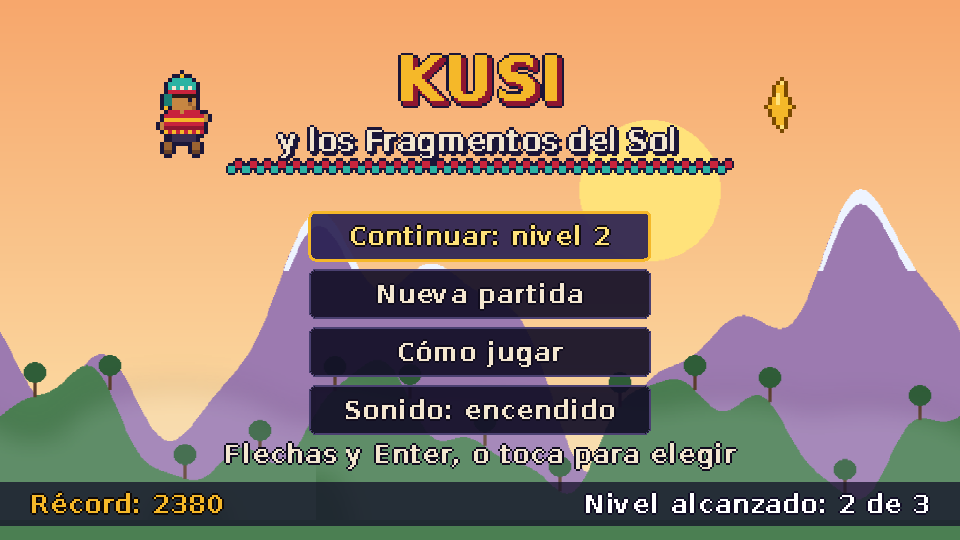
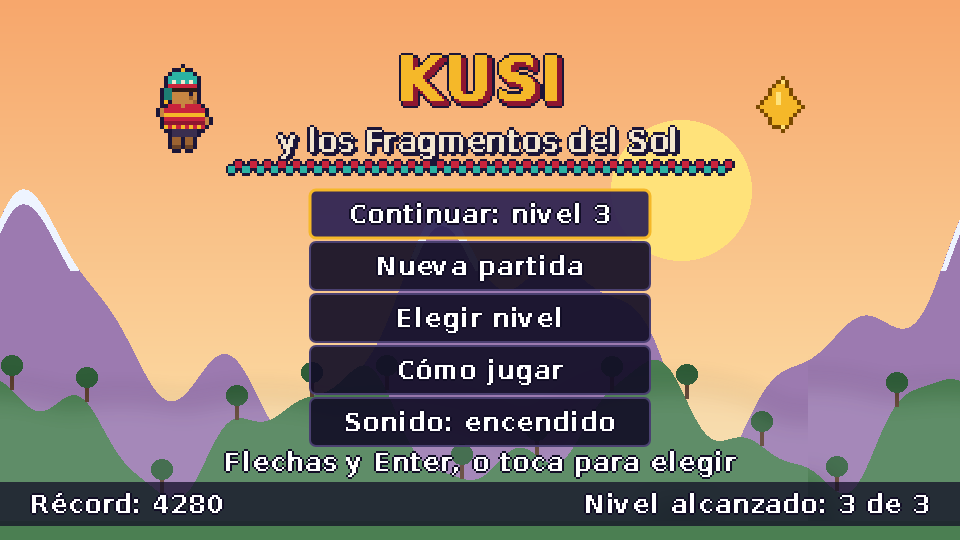
fix: carteles del tutorial de uno en uno; docs, capturas y caché v2 al día

diff --git a/src/ui/TutorialNivel1.js b/src/ui/TutorialNivel1.js
@@ -74,6 +74,7 @@ export default class TutorialNivel1 {
     this.inicioX = jugador.x;
     this.terminado = false;
     this.actual = null;
+    this.panelesEnPantalla = 0; // los carteles salen de uno en uno: el siguiente espera a que se vaya el anterior
     // El Neblino del primer cartel de pisotón es el enemigo más cercano a la columna 21
     this.primerEnemigo = enemigos.getChildren()
       .filter((e) => e.vivo !== undefined)
@@ -130,6 +131,7 @@ export default class TutorialNivel1 {
     };
     panel.dibujarFondo(COLOR.oro);
     panel.alto = alto;
+    this.panelesEnPantalla += 1;
     panel.setScale(0);
     this.scene.tweens.add({ targets: panel, scale: 1, duration: 260, ease: 'Back.out' });
     panel.flotar = this.scene.tweens.add({ targets: panel, y: ALTO_CARTEL - 5, duration: 900, yoyo: true, repeat: -1, ease: 'Sine.inOut' });
@@ -144,22 +146,26 @@ export default class TutorialNivel1 {
     // Si Kusi ya pasó de largo un cartel, se da por visto
     this.carteles.forEach((c) => { if (!c.visto && columna > c.hasta) this.cerrar(c, false); });
 
+    // El cartel que se muestra se completa cuando el jugador hace lo que pide
+    if (this.actual && this.actual.hecho(this)) this.cerrar(this.actual, true);
+
     const siguiente = this.carteles.find((c) => !c.visto && columna >= c.desde && columna <= c.hasta) ?? null;
     if (siguiente !== this.actual) {
-      if (this.actual && !this.actual.visto) this.ocultarPanel(this.actual);
-      this.actual = siguiente;
+      // Kusi salió del tramo del cartel actual sin completarlo (por ejemplo, retrocedió): se guarda
+      if (this.actual) this.ocultarPanel(this.actual);
+      this.actual = null;
       if (siguiente && siguiente.hecho(this)) {
         // Lo que pide este cartel ya lo hizo antes: no hace falta mostrarlo
         siguiente.visto = true;
-        this.actual = null;
-      } else if (siguiente) {
+      } else if (siguiente && this.panelesEnPantalla === 0) {
+        // Solo aparece cuando el cartel anterior terminó de irse, para que nunca se encimen
+        this.actual = siguiente;
         siguiente.poste = this.crearPoste(siguiente.x);
         siguiente.panel = this.crearPanel(siguiente);
       }
     }
-    if (this.actual && this.actual.hecho(this)) this.cerrar(this.actual, true);
 
-    if (this.carteles.every((c) => c.visto)) this.terminar();
+    if (this.panelesEnPantalla === 0 && this.carteles.every((c) => c.visto)) this.terminar();
   }
 
   /** Completa un cartel: si el jugador lo hizo bien, se celebra con un "¡Bien!". */
@@ -172,7 +178,7 @@ export default class TutorialNivel1 {
       panel.dibujarFondo(COLOR.turquesa);
       const bien = this.scene.add.bitmapText(0, -panel.alto / 2 - 16, FUENTE, '¡Bien!', 24).setOrigin(0.5).setTint(COLOR.oroClaro);
       panel.add(bien);
-      this.scene.time.delayedCall(700, () => this.ocultarPanel(cartel));
+      this.scene.time.delayedCall(550, () => this.ocultarPanel(cartel));
     } else {
       this.ocultarPanel(cartel);
     }
@@ -188,7 +194,13 @@ export default class TutorialNivel1 {
     if (!panel || panel.cerrando) return;
     panel.cerrando = true;
     panel.flotar?.stop();
-    this.scene.tweens.add({ targets: panel, scale: 0, alpha: 0, duration: 200, ease: 'Back.in', onComplete: () => panel.destroy() });
+    this.scene.tweens.add({
+      targets: panel, scale: 0, alpha: 0, duration: 200, ease: 'Back.in',
+      onComplete: () => {
+        panel.destroy();
+        this.panelesEnPantalla -= 1;
+      }
+    });
     cartel.panel = null;
   }
 

diff --git a/public/sw.js b/public/sw.js
@@ -3,7 +3,10 @@
  * Estrategia: red primero para el HTML (para recibir actualizaciones) y
  * caché primero para el resto de archivos (JS, imágenes, audio).
  */
-const CACHE = 'kusi-v1';
+// Cambiar este nombre cada vez que se modifiquen imágenes, audio o datos de public/:
+// al activarse, el service worker borra las cachés con otro nombre y descarga los archivos nuevos.
+// v2: sprites del dash, Llama, Atoq y sonido del rayo.
+const CACHE = 'kusi-v2';
 
 self.addEventListener('install', (evento) => {
   evento.waitUntil(caches.open(CACHE).then((cache) => cache.addAll(['./', './index.html'])));

diff --git a/docs/AUTOEVALUACION.md b/docs/AUTOEVALUACION.md
@@ -8,16 +8,16 @@
 
 | Criterio | Peso | Autoevaluación | Justificación |
 | --- | --- | --- | --- |
-| Funcionalidad principal | 20 % | __ / 20 | El juego se juega de inicio a fin: menú, historia, 3 niveles, jefe, victoria, Game Over y reinicio. 22 pruebas automatizadas aprobadas. |
-| Mecánicas de juego | 15 % | __ / 15 | Saltos con tiempo coyote, buffer y altura variable; plataformas de un solo sentido; resortes; losas móviles; suelo de hielo; checkpoints; jefe con dos fases. |
+| Funcionalidad principal | 20 % | __ / 20 | El juego se juega de inicio a fin: menú, selector de niveles, historia, 3 niveles, jefe, victoria, Game Over y reinicio. 22 pruebas automatizadas aprobadas. |
+| Mecánicas de juego | 15 % | __ / 15 | Saltos con tiempo coyote, buffer y altura variable; dash en el suelo y en el aire; plataformas de un solo sentido; resortes; losas móviles; suelo de hielo; checkpoints; enemigos con IA propia (Llama que dispara, Atoq que embiste); jefe con 3 fases y rayos con aviso. |
 | Física y colisiones | 10 % | __ / 10 | Arcade Physics con gravedad, colliders con tilemap, overlaps, triggers (apachetas, meta, arena) y rebotes. |
 | Arquitectura y modularidad | 15 % | __ / 15 | Carpetas `scenes`, `objects`, `ui`, `managers`, `physics`, `audio` y `assets`; máquina de estados reutilizable; EventBus; niveles definidos como datos. |
 | Rendimiento y optimización | 10 % | __ / 10 | 60 FPS en modo Canvas; pooling, texturas precalculadas, fondos recortados y calidad adaptativa. El monitor de rendimiento interno activa la calidad ligera si el equipo baja de 45 FPS. |
-| UX/UI | 10 % | __ / 10 | Menús navegables con teclado, ratón y toque; HUD con vidas, puntos, fragmentos, minimapa y barra del jefe; pausa y Game Over claros. |
-| Audio e inmersión | 5 % | __ / 5 | 3 músicas, 2 jingles y 12 efectos originales; silencio con botón y tecla M, guardado entre sesiones. |
+| UX/UI | 10 % | __ / 10 | Menús navegables con teclado, ratón y toque; selector de niveles con vista previa; "Cómo jugar" en 4 páginas con animaciones reales; tutorial interactivo en el Nivel 1; HUD con vidas, puntos, fragmentos, minimapa y barra del jefe con su fase; game feel (polvo, estela, pausa breve al pisar); pausa y Game Over claros. |
+| Audio e inmersión | 5 % | __ / 5 | 3 músicas, 2 jingles y 14 efectos originales (incluidos dash y rayo); silencio con botón y tecla M, guardado entre sesiones. |
 | Responsividad y táctil | 5 % | __ / 5 | `Scale.FIT`, controles táctiles multitáctiles probados en un móvil simulado en horizontal, pantalla completa y aviso de orientación. |
 | Código limpio y documentación | 5 % | __ / 5 | Comentarios en cada módulo, nombres descriptivos, README y guía técnica. |
-| README, video y presentación | 5 % | __ / 5 | README completo y 6 capturas. **Pendiente: video demo (ver `GUION_VIDEO.md`).** |
+| README, video y presentación | 5 % | __ / 5 | README completo y 6 capturas actualizadas (menú, selector, tutorial, Llama, Uku en fase 3 y Cómo jugar). **Pendiente: video demo (ver `GUION_VIDEO.md`).** |
 | **Total** | **100 %** | **__ / 100** | |
 | Bonus | hasta +10 % | | Jefe final, minimapa, PWA instalable y efectos de shader. |
 
@@ -31,15 +31,16 @@
 ## Limitaciones
 
 - El arte es pixel art sencillo, generado por código.
-- Solo hay un tipo de jefe y tres niveles.
+- Solo hay un jefe y tres niveles.
 - El rendimiento en WebGL debe confirmarse en un equipo con GPU.
 - Los controles táctiles solo se probaron en un móvil simulado, no en un dispositivo físico.
 
 ## Mejoras futuras
 
-- Más niveles y un selector de niveles.
+- Más niveles.
+- Mostrar en el selector el mejor puntaje y los fragmentos recogidos de cada nivel.
 - Tabla de récords en línea (leaderboard).
-- Más patrones de ataque para Uku y nuevos enemigos.
+- Más patrones de ataque para Uku.
 - Ajuste de volumen de música y efectos por separado en el menú.
 
 ## Herramientas utilizadas

diff --git a/docs/GUIA_TECNICA.md b/docs/GUIA_TECNICA.md
@@ -55,8 +55,9 @@ Hay dos niveles de estados.
 
 1. **Estado global** (`managers/GameStateManager.js`): `cargando`, `menu`, `historia`, `jugando`, `pausa`, `derrota` y `victoria`, con una tabla de transiciones permitidas. Se usa, por ejemplo, para que la tecla P solo pause cuando el estado es `jugando`.
 2. **Máquinas de estados de entidades** (`managers/StateMachine.js`): una clase genérica que guarda el estado actual y llama a `entrar`, `actualizar` y `salir`.
-   - **Kusi:** `quieto`, `corriendo`, `saltando`, `cayendo`, `herido`, `muerto` y `celebrando`. Cada estado elige su animación y decide a cuál pasar.
-   - **Uku:** `oculto`, `entrada`, `flotar`, `aviso`, `picada`, `aturdido`, `golpeado`, `subir` y `derrotado`.
+   - **Kusi:** `quieto`, `corriendo`, `saltando`, `cayendo`, `dash`, `herido`, `muerto` y `celebrando`. Cada estado elige su animación y decide a cuál pasar.
+   - **Uku:** `oculto`, `entrada`, `flotar`, `rayo`, `aviso`, `picada`, `aturdido`, `golpeado`, `subir` y `derrotado`.
+   - **Llama:** `quieta`, `inflar`, `escupir` y `liberada`. **Atoq:** `patrullar`, `alerta`, `cargar`, `cansado` y `liberado`.
 
 Ventaja: en vez de muchos `if` mezclados en `update()`, cada estado describe solo lo suyo, y agregar un estado nuevo no rompe los demás.
 
@@ -102,11 +103,15 @@ Para crear un nivel nuevo basta con agregar un objeto al arreglo `NIVELES`.
 
 - **Neblino:** patrulla; da la vuelta si choca (`body.blocked`) o si la baldosa delante de sus pies no existe (`capa.getTileAtWorldXY`).
 - **Murciélago:** sin gravedad. Patrulla en horizontal y su velocidad vertical es la derivada de una onda seno, así el vuelo es suave.
+- **Llama hechizada:** no se mueve. Se gira hacia Kusi y, si está dentro de su alcance (8 baldosas en horizontal y 2 de diferencia de altura), infla las mejillas 0,55 s como aviso y escupe un proyectil de escarcha tomado de un pool (`escupitajos`). Al pisarla se libera de la niebla en vez de morir.
+- **Atoq de niebla:** patrulla como el Neblino. Si ve a Kusi a su misma altura (6 baldosas), se detiene con un "!" durante 0,45 s y embiste a 210 px/s; frena en paredes y bordes y queda `cansado` 1,2 s, que es el mejor momento para pisarlo.
 - **Uku:**
   - En `flotar` persigue la posición X de Kusi con velocidad limitada y suelta esquirlas.
   - Luego avisa (ojos rojos y temblor), se lanza en `picada`, queda `aturdido` y vuelve a subir.
   - Solo es vulnerable en `aturdido`.
-  - Con la mitad de la vida (fase 2) se mueve más rápido, suelta tres esquirlas a la vez y pasa menos tiempo aturdido.
+  - Tiene **3 fases** según su vida (más de 2/3, más de 1/3 y el resto). En cada fase sube la velocidad (160, 230 y 300), suelta más esquirlas por tanda (1, 3 y 5) y pasa menos tiempo aturdido (2,4 s, 1,7 s y 1,1 s).
+  - Al cambiar de fase cambia de color, ruge y sacude la cámara. La barra del jefe muestra la fase (F1, F2, F3).
+  - En la fase 3, cada 2 tandas de hielo pasa al estado `rayo`: marca una sombra amarilla en el suelo donde está Kusi y, 0,8 s después, deja caer un rayo (`Rayo.js`, también con pool).
 
 ## 8. Comunicación entre partes: EventBus
 

diff --git a/docs/GUION_VIDEO.md b/docs/GUION_VIDEO.md
@@ -2,15 +2,22 @@
 
 El enunciado pide mostrar gameplay, menús, audio y funcionalidades. Graba con el sonido del sistema activado (por ejemplo, con OBS Studio o la grabadora de Windows con Win + Alt + R).
 
+## Antes de grabar
+
+- Para que salga el tutorial, entra a **Cómo jugar** y pulsa **Repetir tutorial**.
+- Para tener los 3 niveles abiertos en el selector, juega hasta el nivel 3 una vez, o escribe `__kusiDebug.almacen.registrarNivel(3)` en la consola del navegador (F12) con `npm run dev` y recarga la página.
+
+## Guion
+
 | Tiempo | Qué mostrar |
 | --- | --- |
-| 0–8 s | Menú principal con la música; mostrar récord y nivel alcanzado. Abrir "Cómo jugar" un instante. |
-| 8–16 s | "Nueva partida": dos paneles de la historia y luego "Saltar historia". |
-| 16–34 s | Nivel 1: recoger fragmentos, pisar un Neblino, usar la flor de puya y encender una apacheta. Caer a un pozo para mostrar la reaparición. |
-| 34–40 s | Pausa (P): mostrar el menú y silenciar/activar el sonido. Continuar. |
-| 40–52 s | Nivel 2: suelo de hielo resbaloso y una losa móvil sobre el abismo. |
-| 52–75 s | Nivel 3: pelea con Uku, esquivar esquirlas y pisarlo aturdido; mostrar la barra de vida y el minimapa. |
+| 0–8 s | Menú principal con la música; se ven el récord y el nivel alcanzado. Abrir **Cómo jugar** y pasar rápido por las 4 páginas animadas (controles, objetos, enemigos y jefe). |
+| 8–14 s | **Elegir nivel**: mostrar las tarjetas (un nivel con candado si aún no se alcanzó) y volver. "Nueva partida": un panel de la historia y "Saltar historia". |
+| 14–32 s | Nivel 1 con el **tutorial**: cartel de moverse, de saltar ("¡Bien!") y de dash. Recoger fragmentos, pisar un Neblino (con su pausa breve y el polvo al aterrizar), usar la flor de puya y encender una apacheta. Caer a un pozo para mostrar la reaparición. |
+| 32–38 s | Pausa (P): mostrar el menú y silenciar/activar el sonido. Continuar. |
+| 38–50 s | Nivel 2: suelo de hielo resbaloso, una losa móvil y la **Llama hechizada** escupiendo escarcha. Esquivar con un salto o un **dash** y pisarla para liberarla. |
+| 50–75 s | Nivel 3: el **Atoq** que embiste (pisarlo cuando queda cansado) y la pelea con Uku: esquivar esquirlas, pisarlo aturdido, el **cambio de fase** (color, rugido y temblor) y, en la fase 3, la sombra amarilla y el **rayo**. Mostrar la barra con la fase (F1, F2, F3) y el minimapa. |
 | 75–85 s | Puerta del Sol, epílogo y pantalla de victoria con el récord. |
-| 85–90 s | Opcional: el juego en el móvil o con `?tactil` mostrando los controles táctiles. |
+| 85–90 s | Opcional: el juego en el móvil o con `?tactil` mostrando los controles táctiles, incluido el botón de dash. |
 
-Consejo: para grabar el nivel 3 sin rejugar todo, elige "Continuar" en el menú cuando tengas guardado el nivel 3.
+Consejo: para grabar el nivel 3 sin rejugar todo, usa **Elegir nivel** → Nivel 3, o "Continuar" si tienes una partida guardada en ese nivel.
